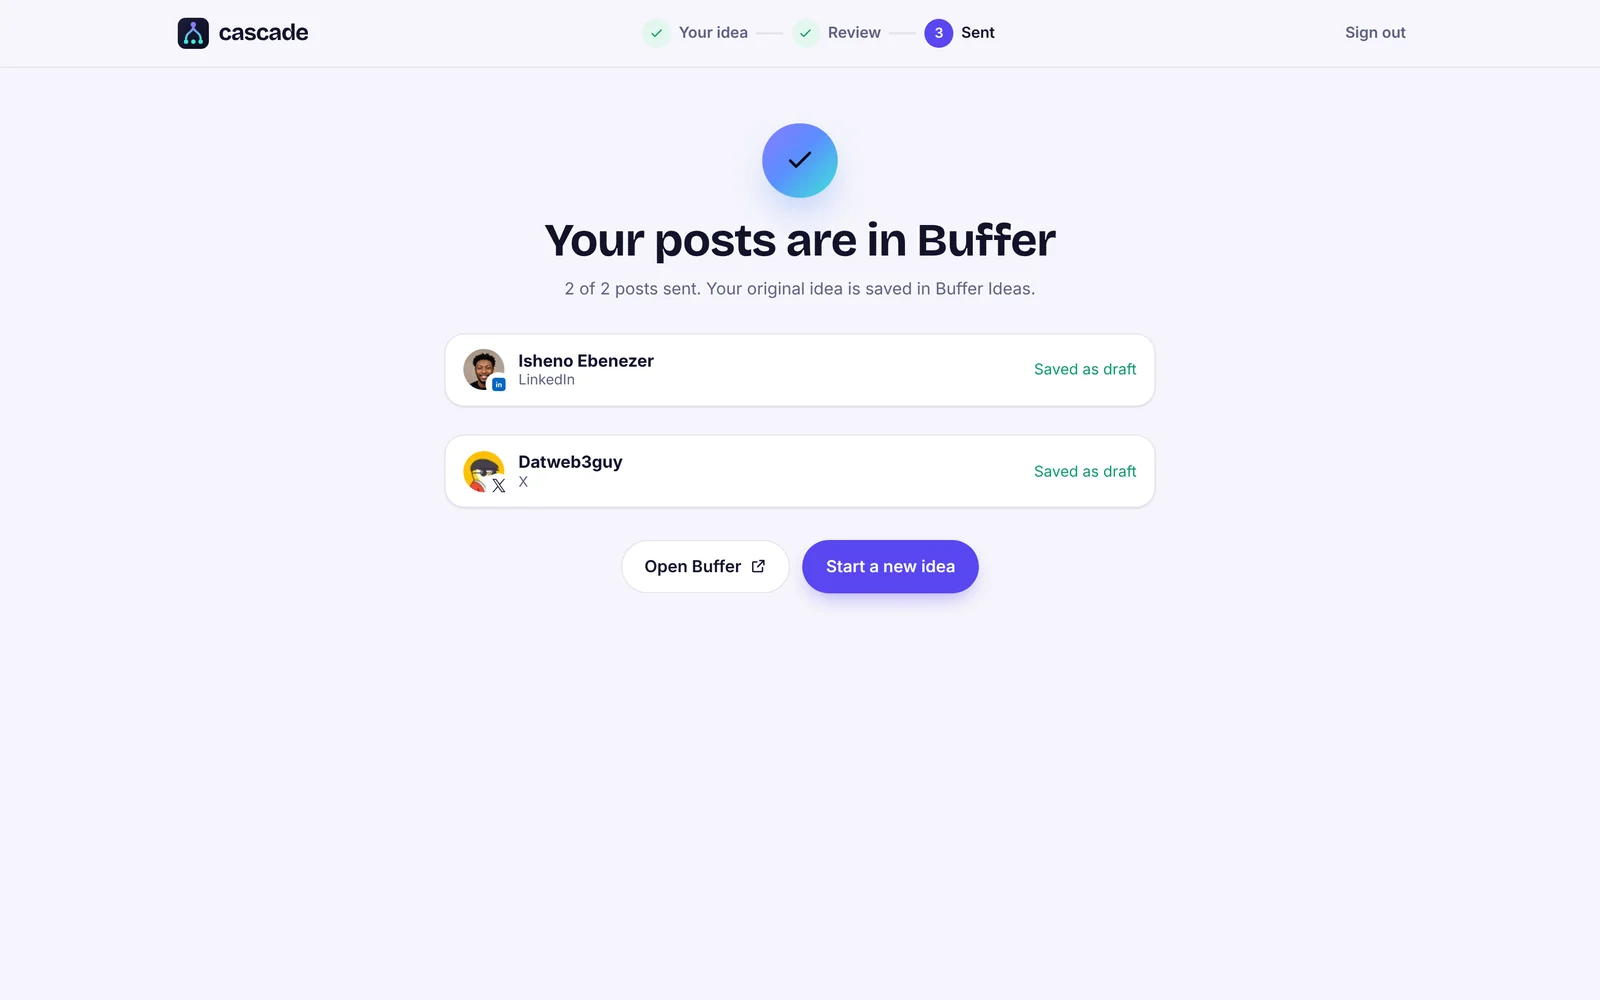
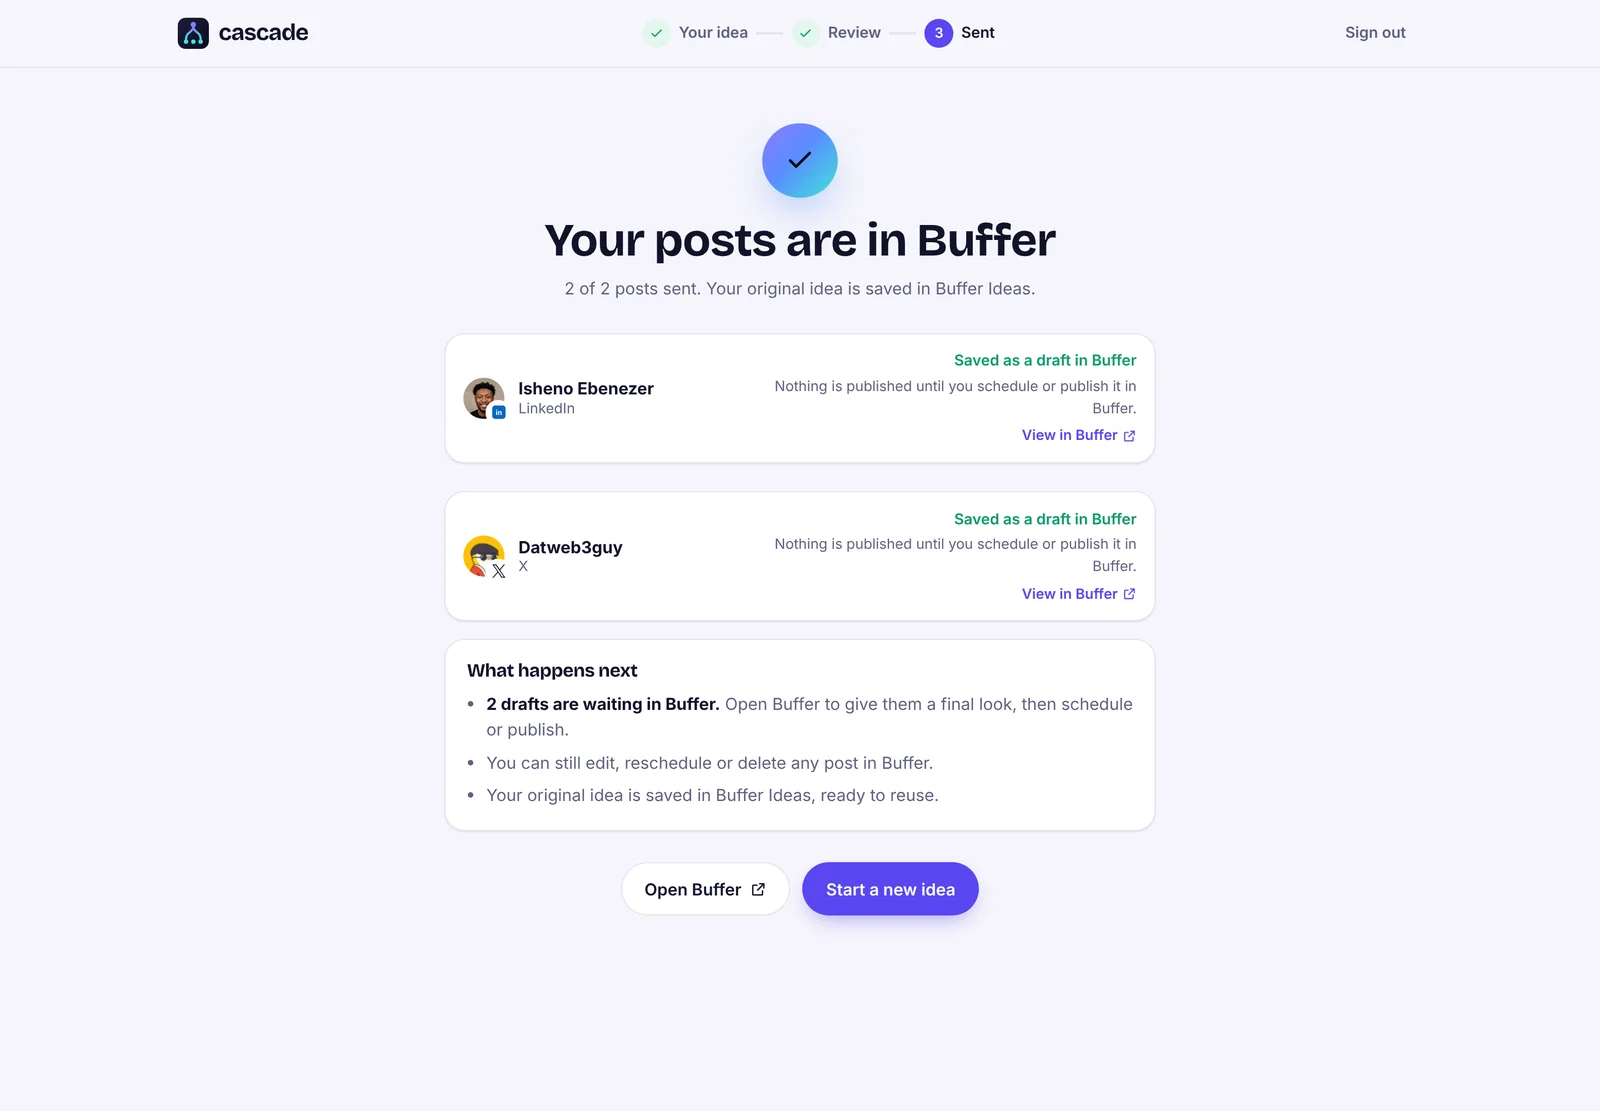
README and demo: explain what happens after sending

diff --git a/README.md b/README.md
@@ -24,8 +24,22 @@ Cascade does that step. You write the idea once, in your own words. Cascade writ
 
 | 1. Write it once | 2. Get a post for each network | 3. Send to Buffer |
 | --- | --- | --- |
-| ![Writing the idea and choosing Buffer channels](docs/screenshots/compose.webp) | ![Cascade writing a post for each network](docs/screenshots/writing.webp) | ![Posts saved in Buffer](docs/screenshots/sent.webp) |
+| ![Writing the idea and choosing Buffer channels](docs/screenshots/compose.webp) | ![Cascade writing a post for each network](docs/screenshots/writing.webp) | ![Choosing queue, a set time or draft for each post](docs/screenshots/review.webp) |
 | Sign in with Buffer. Your channels load from Buffer. Write the idea, add a photo or video (upload it or paste a link), pick channels. | Each network gets its own version, in its own style, checked against Buffer's character rules. Edit anything or ask for a fresh version. | Choose per channel: Buffer queue, a set time in that channel's time zone, or a draft. One tap sends them all and saves your idea in Buffer Ideas. |
+
+## What happens after you send
+
+Cascade doesn't publish on its own. **Buffer does**, using the choice you made for each post:
+
+| You choose | What happens |
+| --- | --- |
+| **Queue** | Buffer publishes it automatically at the next open slot in that channel's posting schedule. |
+| **Pick a time** | Buffer publishes it automatically at that time, in the channel's time zone. |
+| **Draft** | Nothing is published. It waits in Buffer's Drafts until you schedule or publish it there. |
+
+Queued and scheduled posts go out even if you close Cascade. Every post can still be edited, rescheduled or deleted in Buffer, and your original idea stays in Buffer Ideas to reuse.
+
+<p align="center"><img src="docs/screenshots/sent.webp" alt="After sending: each post's status in Buffer and what happens next" width="720"></p>
 
 <p align="center"><img src="docs/screenshots/mobile.webp" alt="Cascade on a phone" width="260"></p>
 
